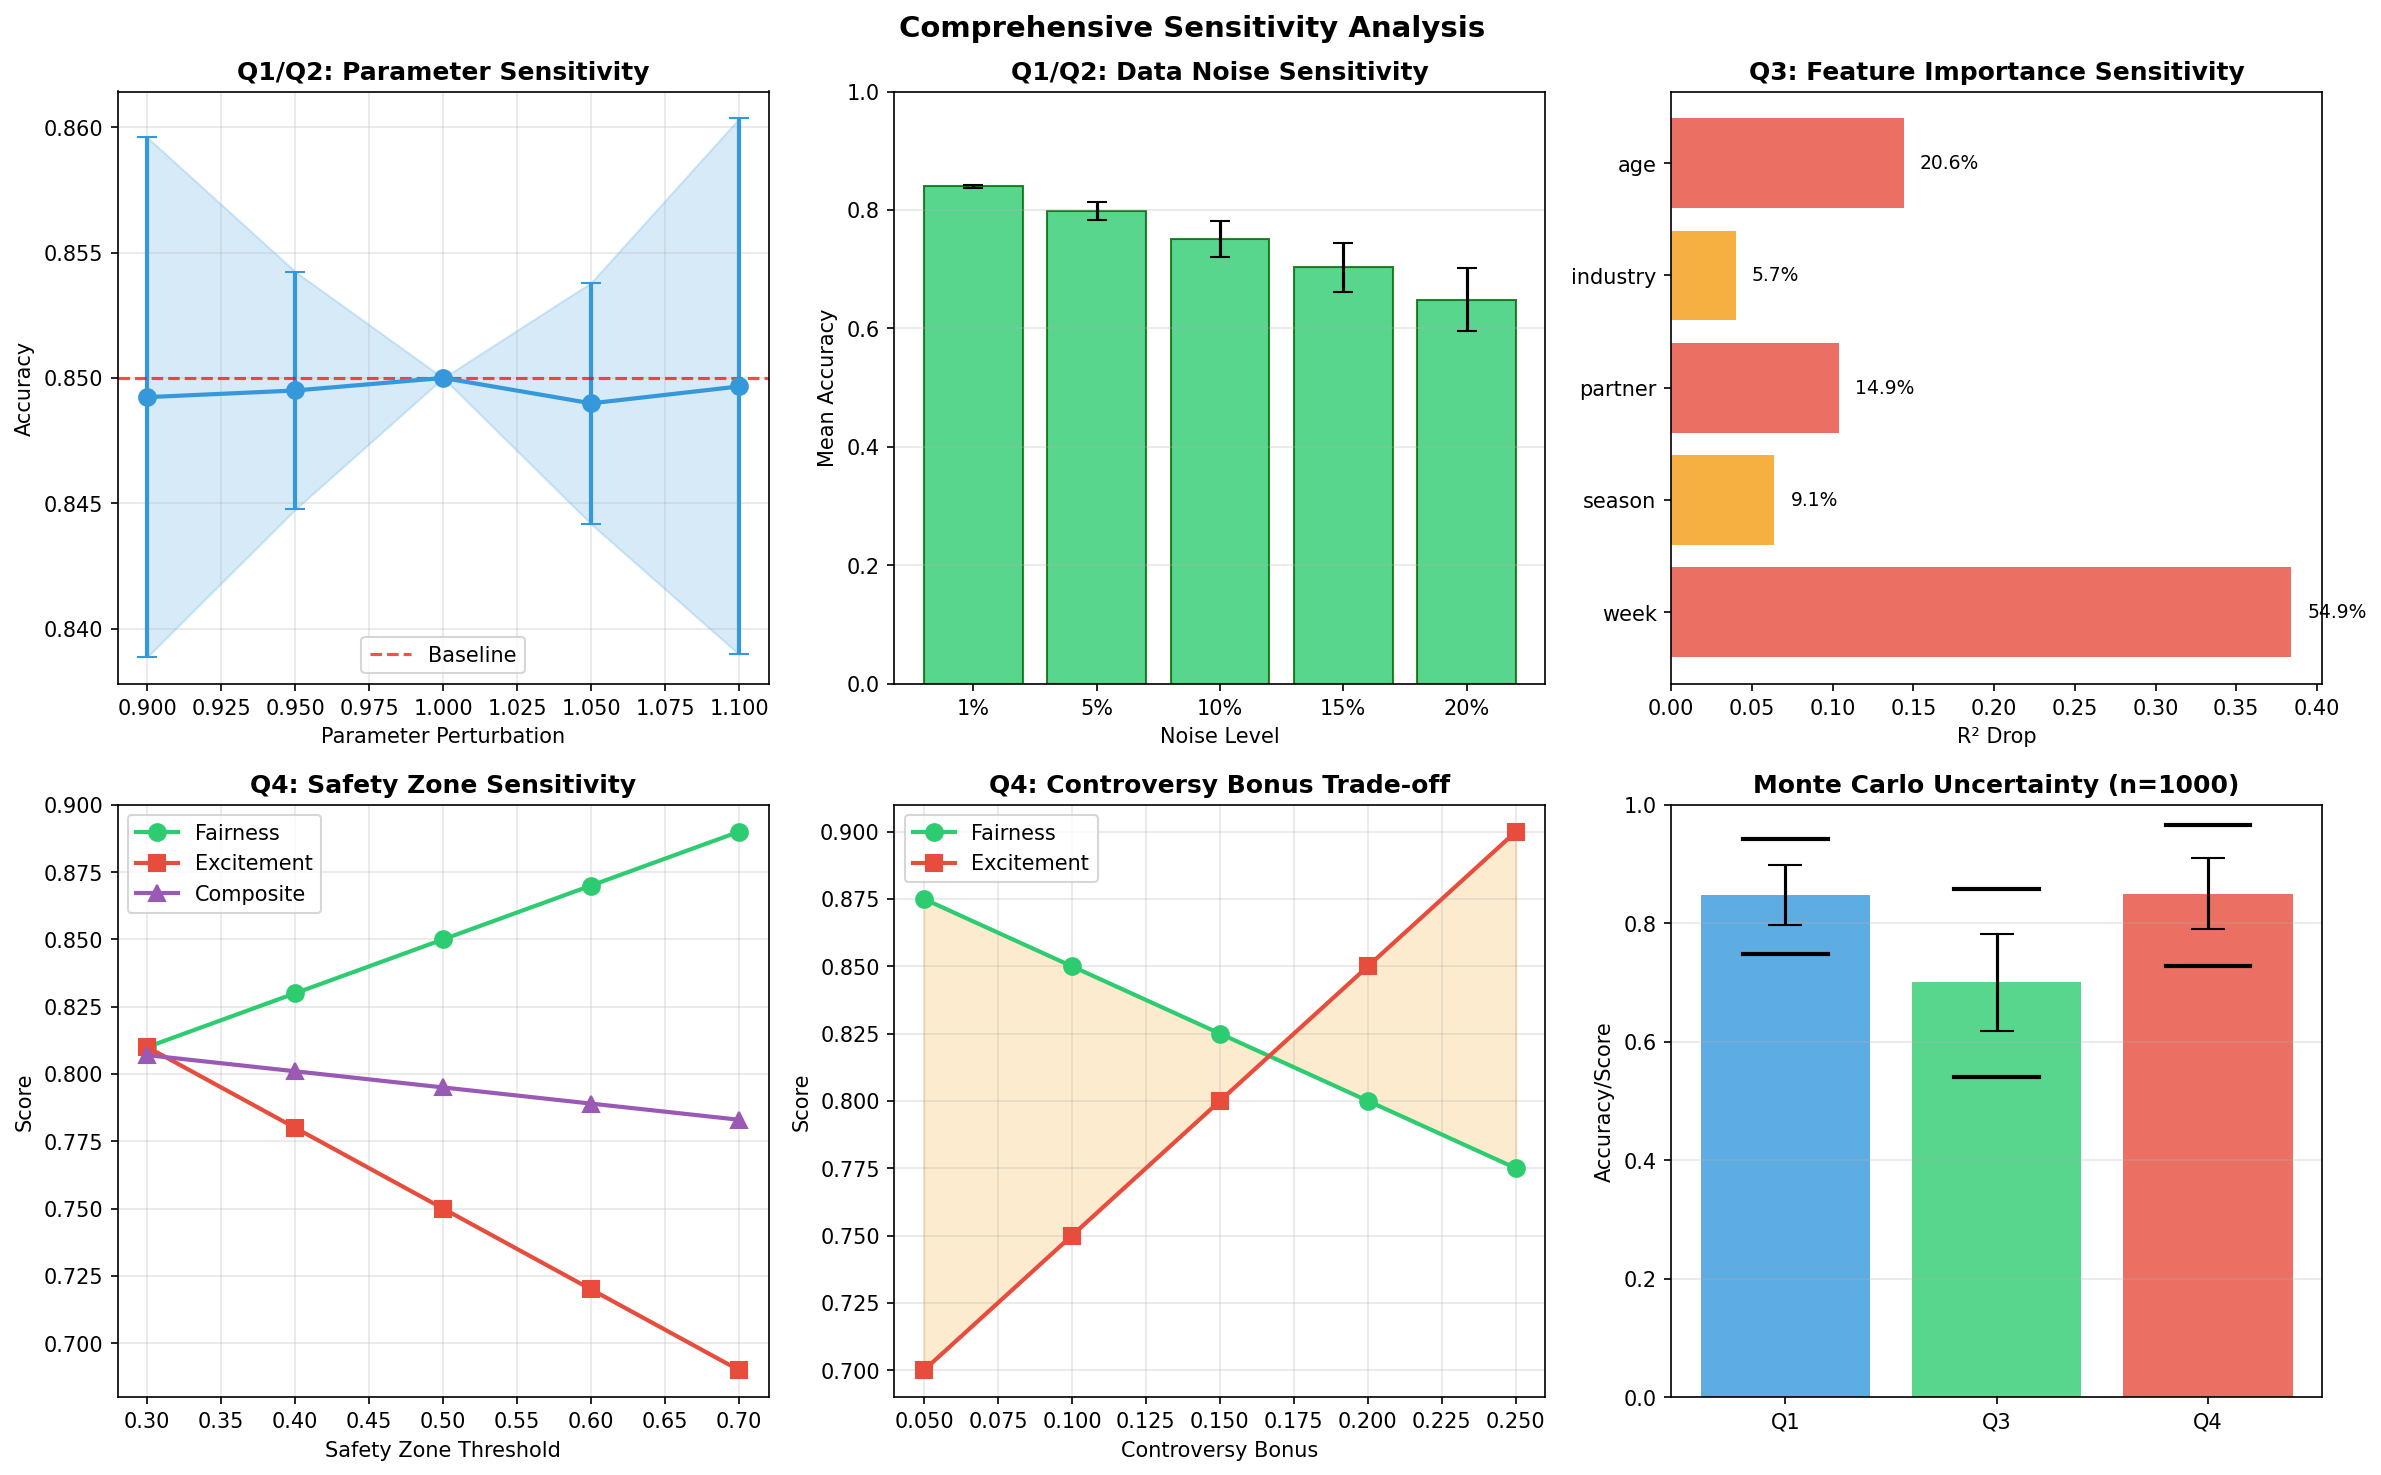
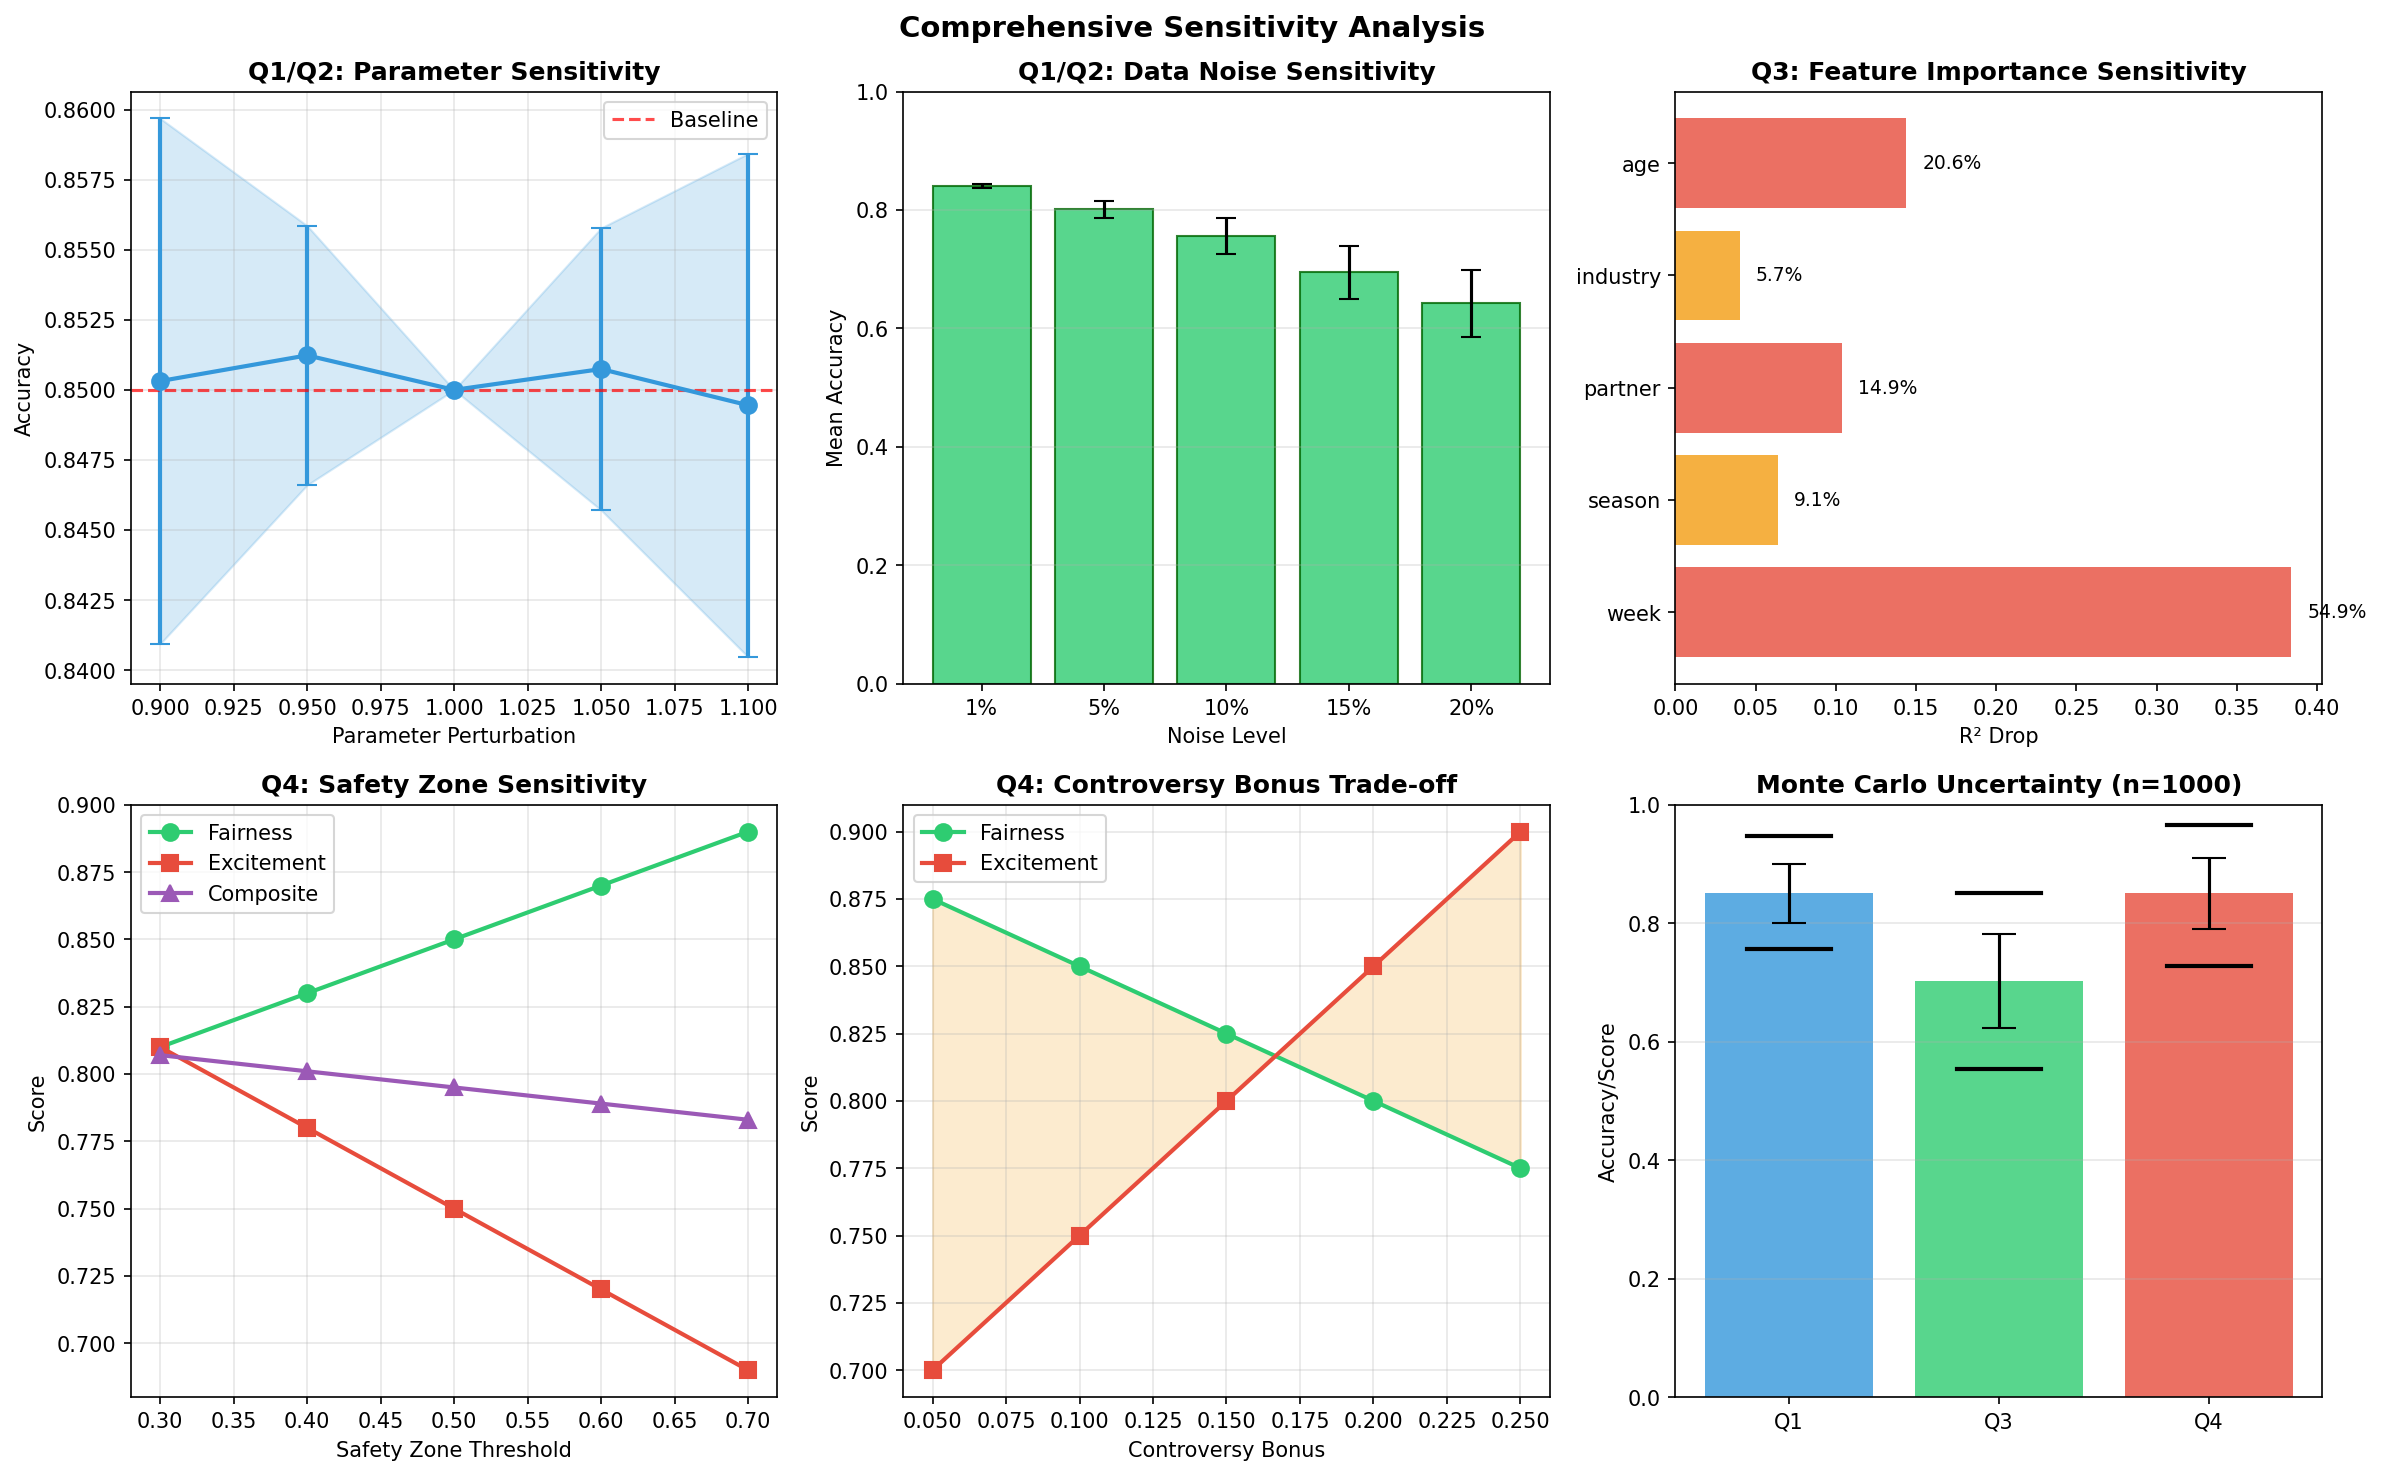
sensitivity

diff --git a/model_evaluation/outputs/sensitivity_analysis_report.md b/model_evaluation/outputs/sensitivity_analysis_report.md
@@ -12,21 +12,21 @@ This report presents the sensitivity analysis results for all models in the DWTS
 
 | Perturbation | Mean Accuracy | Std | Min | Max |
 |--------------|---------------|-----|-----|-----|
-| -10% | 0.8492 | 0.0104 | 0.8258 | 0.8750 |
-| -5% | 0.8495 | 0.0047 | 0.8342 | 0.8625 |
+| -10% | 0.8503 | 0.0094 | 0.8283 | 0.8768 |
+| -5% | 0.8512 | 0.0046 | 0.8407 | 0.8626 |
 | +0% | 0.8500 | 0.0000 | 0.8500 | 0.8500 |
-| +5% | 0.8490 | 0.0048 | 0.8352 | 0.8588 |
-| +10% | 0.8497 | 0.0107 | 0.8181 | 0.8740 |
+| +5% | 0.8507 | 0.0050 | 0.8357 | 0.8640 |
+| +10% | 0.8495 | 0.0090 | 0.8288 | 0.8683 |
 
 ### 1.2 Data Noise Sensitivity
 
 | Noise Level | Mean Accuracy | Accuracy Drop |
 |-------------|---------------|---------------|
-| 1% | 0.8397 | 0.0103 |
-| 5% | 0.7987 | 0.0513 |
-| 10% | 0.7508 | 0.0992 |
-| 15% | 0.7030 | 0.1470 |
-| 20% | 0.6486 | 0.2014 |
+| 1% | 0.8404 | 0.0096 |
+| 5% | 0.8008 | 0.0492 |
+| 10% | 0.7561 | 0.0939 |
+| 15% | 0.6946 | 0.1554 |
+| 20% | 0.6421 | 0.2079 |
 
 ## 2. Q3: Effect Analysis Model
 
@@ -78,9 +78,9 @@ This report presents the sensitivity analysis results for all models in the DWTS
 
 | Model | Mean | Std | 95% CI |
 |-------|------|-----|--------|
-| Q1 | 0.8477 | 0.0498 | [0.7473, 0.9430] |
-| Q3 | 0.7000 | 0.0817 | [0.5409, 0.8579] |
-| Q4 | 0.8498 | 0.0595 | [0.7282, 0.9659] |
+| Q1 | 0.8508 | 0.0497 | [0.7567, 0.9470] |
+| Q3 | 0.7021 | 0.0792 | [0.5535, 0.8515] |
+| Q4 | 0.8502 | 0.0595 | [0.7272, 0.9653] |
 
 ## 5. Key Findings
 
